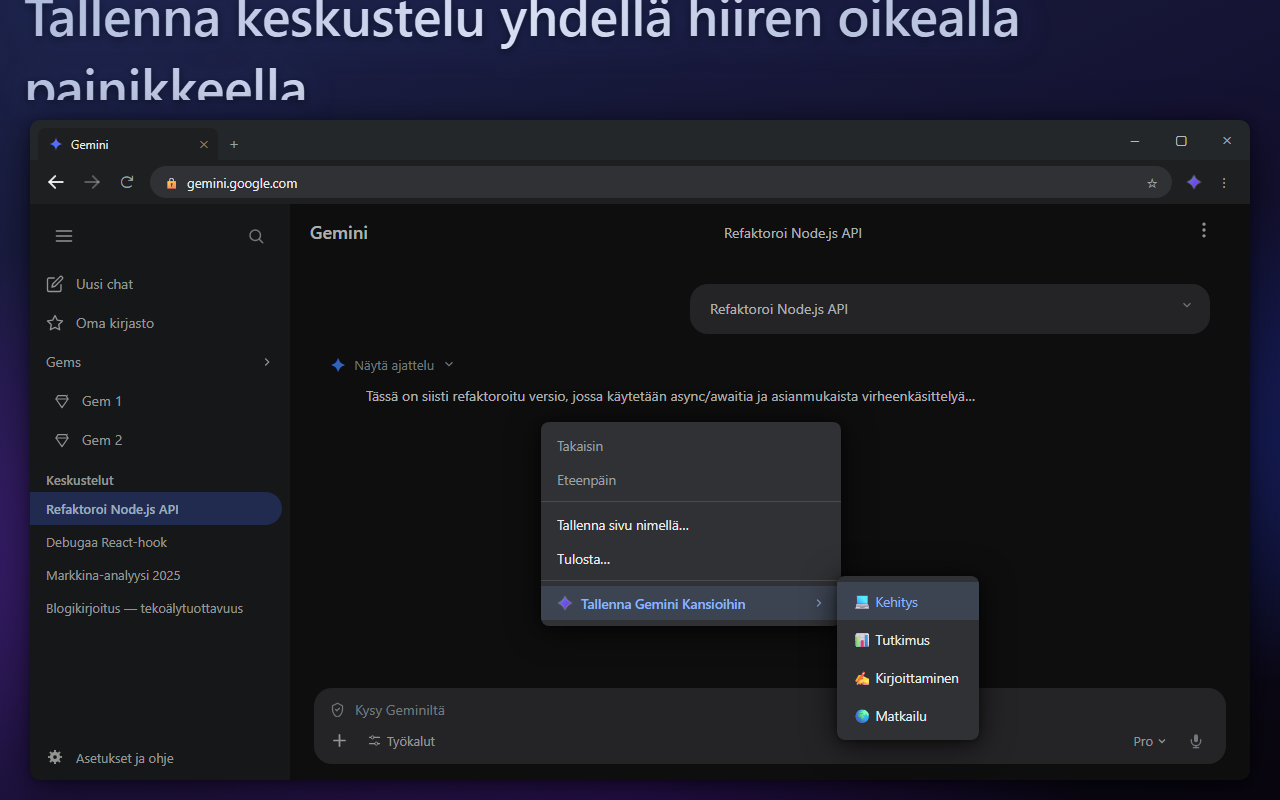
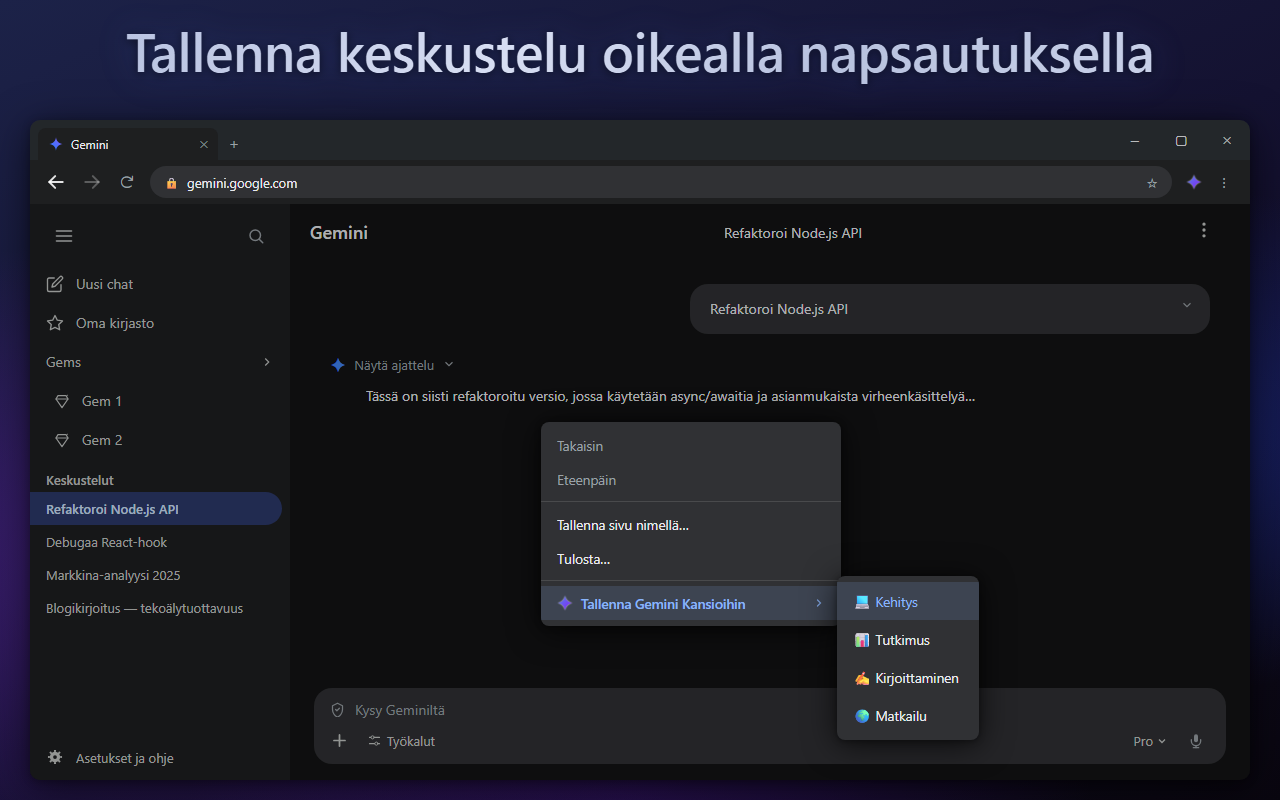
Fix Firefox AF shortcut, add context menu toasts, update GF promo screenshots
- build.py: inject site-config.js before background.js in Firefox manifest
  scripts array (was missing, causing getSiteByUrl to be undefined and
  silently breaking the keyboard shortcut in Firefox)
- background.js: add toast notifications (saved / already saved) to
  context menu saves, matching keyboard shortcut behaviour
- background.js: auto-contrast toast text colour via luminance check
  (black on light backgrounds like ChatGPT white, white on dark)
- background.js: move showToast before both handlers and reorganise sections
- GF Promo 5 fi/sw screenshots regenerated with shorter titles
- package.json/lock: sync version to 4.1

Changed region(s): [[0.0, 0.0, 0.9062, 0.125]]

diff --git a/extensions/ai-folders/background.js b/extensions/ai-folders/background.js
@@ -78,6 +78,22 @@ chrome.storage.onChanged.addListener((changes, namespace) => {
   }
 });
 
+// --- TOAST ---
+
+const showToast = (msg, bgColor) => {
+  const r = parseInt(bgColor.slice(1,3), 16) || 0;
+  const g = parseInt(bgColor.slice(3,5), 16) || 0;
+  const b = parseInt(bgColor.slice(5,7), 16) || 0;
+  const textColor = (0.299*r + 0.587*g + 0.114*b) / 255 > 0.6 ? '#000000' : '#ffffff';
+  const toast = document.createElement('div');
+  toast.textContent = msg;
+  toast.style.cssText = `position:fixed; bottom:30px; right:30px; background:${bgColor}; color:${textColor}; padding:12px 24px; border-radius:8px; z-index:99999; font-family:sans-serif; font-size:14px; font-weight:bold; box-shadow:0 4px 12px rgba(0,0,0,0.15); transition:opacity 0.5s ease-in-out;`;
+  document.body.appendChild(toast);
+  setTimeout(() => { toast.style.opacity = '0'; setTimeout(() => toast.remove(), 500); }, 2500);
+};
+
+// --- CONTEXT MENU ---
+
 chrome.contextMenus.onClicked.addListener(async (info, tab) => {
   if (info.parentMenuItemId !== "ai-folders-parent") return;
   try {
@@ -85,6 +101,7 @@ chrome.contextMenus.onClicked.addListener(async (info, tab) => {
     const siteKey = getSiteByUrl(tab.url, localLlmUrl);
     const targetFolder = info.menuItemId.replace("folder_", "");
     const fallbackTitle = tab.title || chrome.i18n.getMessage("defaultTitle") || "New conversation";
+    const siteColor = SITES[siteKey]?.color || "#1a73e8";
 
     let finalTitle = fallbackTitle;
     if (siteKey && siteKey !== 'local') {
@@ -102,27 +119,30 @@ chrome.contextMenus.onClicked.addListener(async (info, tab) => {
 
     const cleanTargetUrl = normalizeUrl(tab.url);
     const isDuplicate = folders[targetFolder].some(chat => normalizeUrl(chat.url) === cleanTargetUrl);
+
     if (!isDuplicate) {
       const chatEntry = { title: finalTitle, url: tab.url, timestamp: Date.now() };
       if (siteKey) chatEntry.site = siteKey;
       folders[targetFolder].push(chatEntry);
       await new Promise(resolve => saveData({ folders }, resolve));
+      await chrome.scripting.executeScript({
+        target: { tabId: tab.id },
+        args: [chrome.i18n.getMessage("toastSaved") || "✅ Saved!", siteColor],
+        func: showToast
+      });
+    } else {
+      await chrome.scripting.executeScript({
+        target: { tabId: tab.id },
+        args: [chrome.i18n.getMessage("toastAlreadySaved") || "⚠️ Already saved!", "#d93025"],
+        func: showToast
+      });
     }
   } catch (error) {
     console.error("Error during context menu save:", error);
   }
 });
 
-
 // --- QUICK SAVE (keyboard shortcut) ---
-
-const showToast = (msg, bgColor) => {
-  const toast = document.createElement('div');
-  toast.textContent = msg;
-  toast.style.cssText = `position:fixed; bottom:30px; right:30px; background:${bgColor}; color:white; padding:12px 24px; border-radius:8px; z-index:99999; font-family:sans-serif; font-size:14px; font-weight:bold; box-shadow:0 4px 12px rgba(0,0,0,0.15); transition:opacity 0.5s ease-in-out;`;
-  document.body.appendChild(toast);
-  setTimeout(() => { toast.style.opacity = '0'; setTimeout(() => toast.remove(), 500); }, 2500);
-};
 
 chrome.commands.onCommand.addListener(async (command) => {
   if (command !== "quick-save") return;

diff --git a/build.py b/build.py
@@ -194,7 +194,8 @@ def build_firefox(ext_name, version):
     }
     if "background" in manifest and "service_worker" in manifest["background"]:
         sw = manifest["background"].pop("service_worker")
-        manifest["background"]["scripts"] = ["lz-string.min.js", "utils.js", sw]
+        extra = ["site-config.js"] if os.path.exists(os.path.join(dest, "site-config.js")) else []
+        manifest["background"]["scripts"] = ["lz-string.min.js", "utils.js"] + extra + [sw]
 
     if "commands" in manifest:
         for cmd_info in manifest["commands"].values():